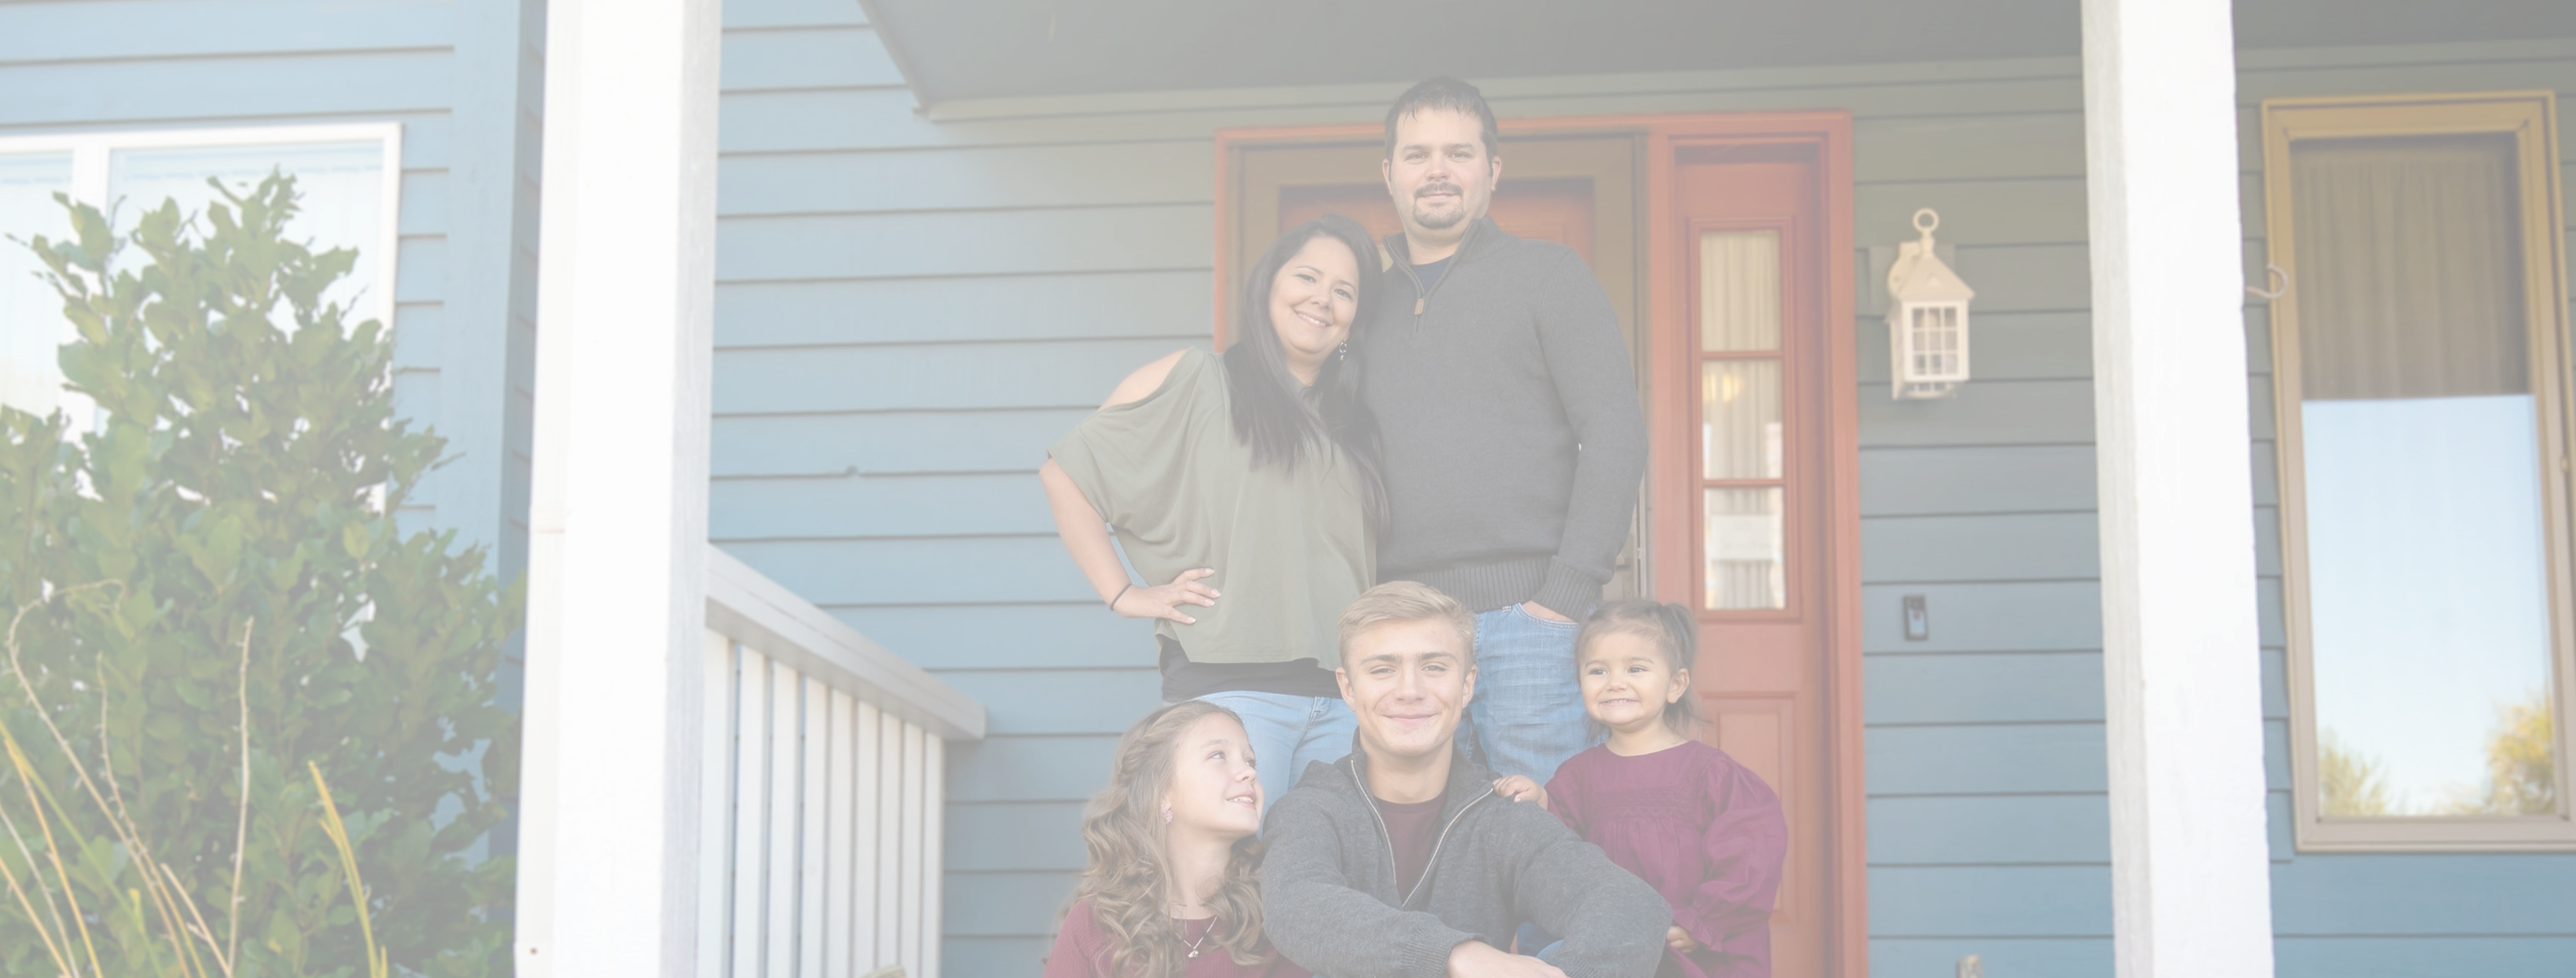
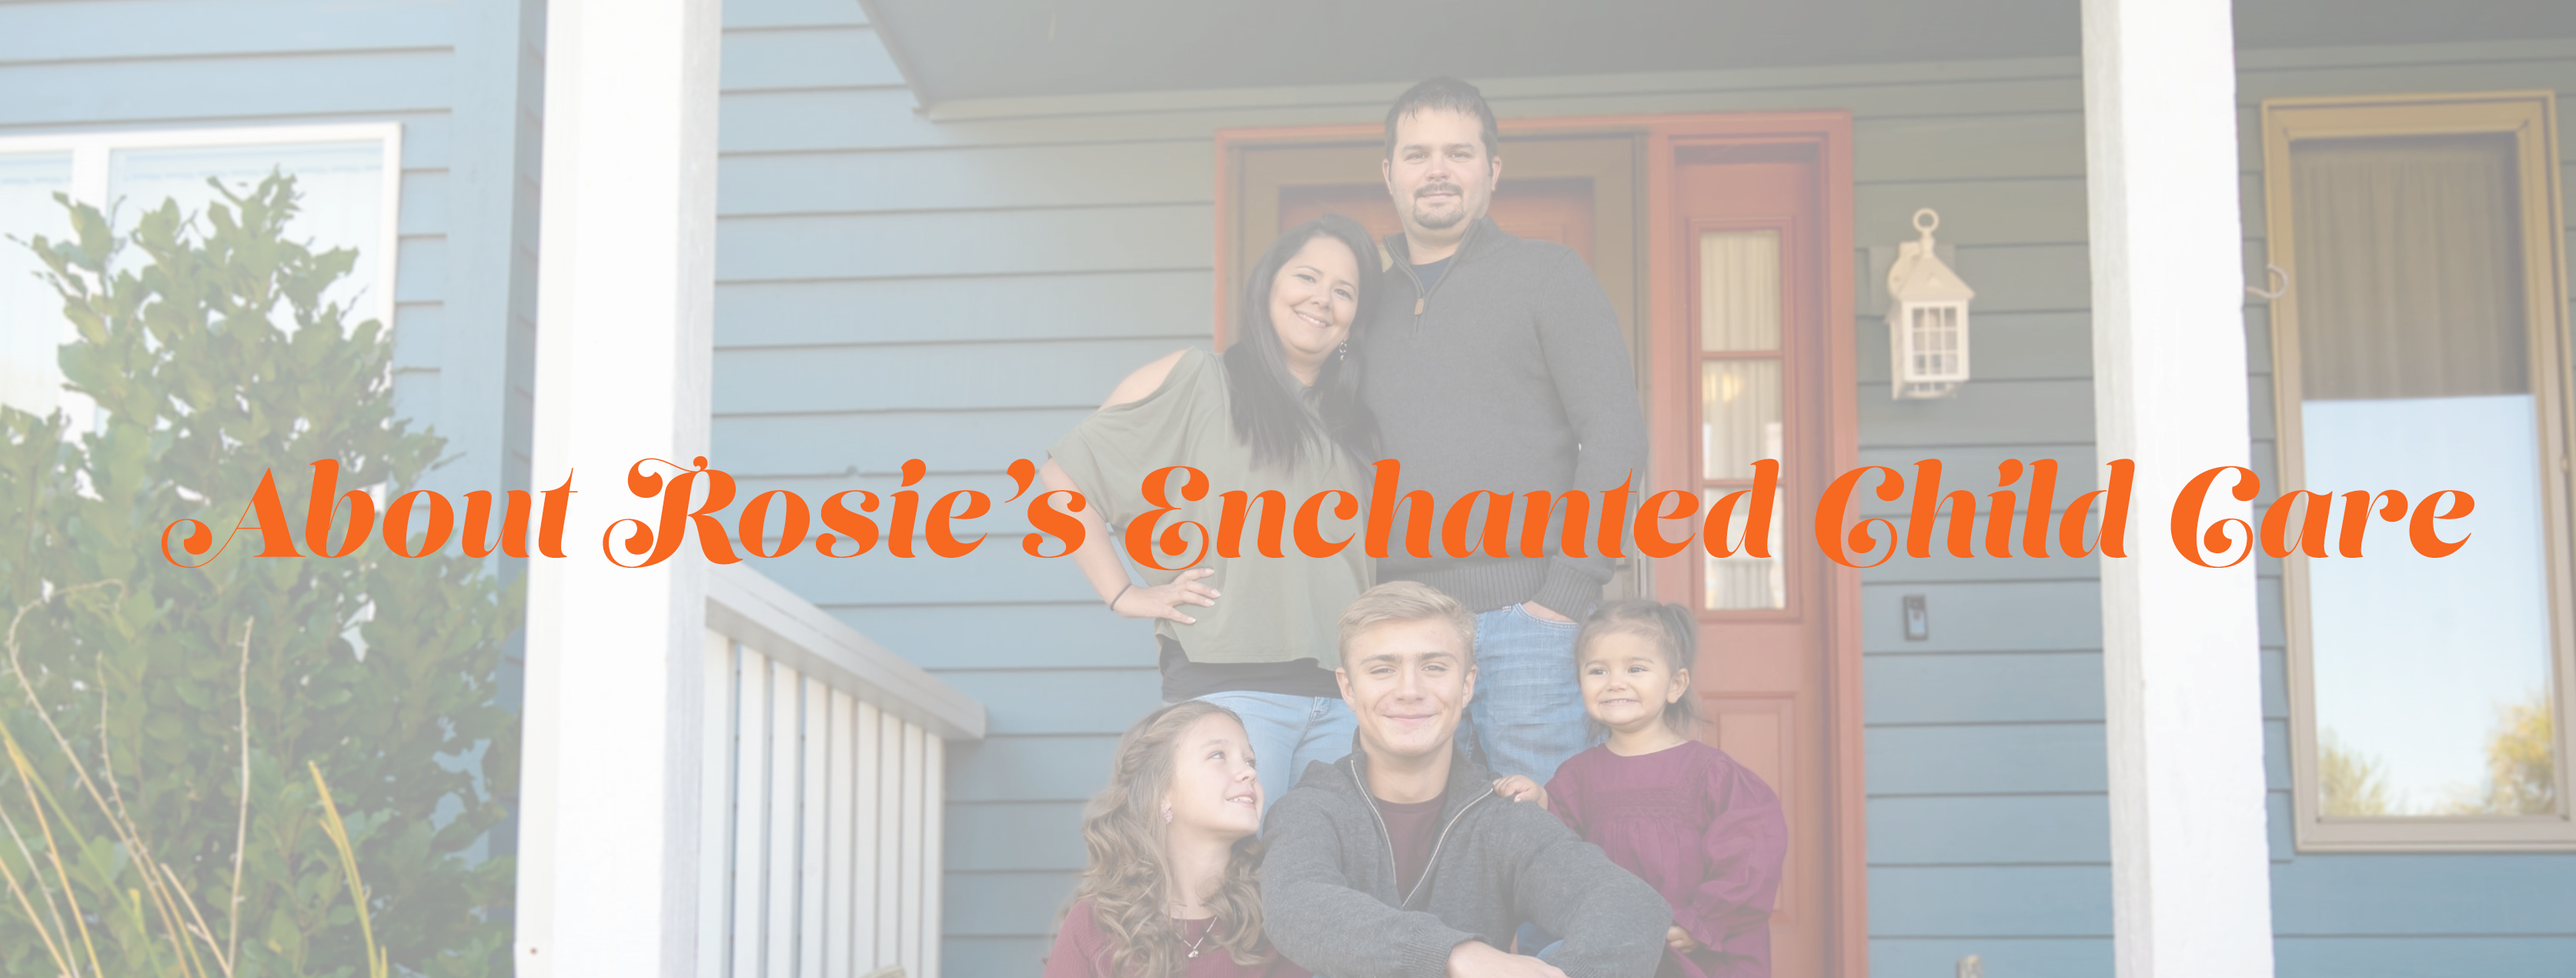
updated fonts and responsiveness

Changed region(s): [[0.0621, 0.4603, 0.9633, 0.583]]

diff --git a/about.html b/about.html
@@ -16,48 +16,46 @@
     <title>About Rosie's Enchanting Childcare</title>
 </head>
 <body>
-  <nav class="navbar navbar-expand-lg fixed-top bg-light pb-0">
-    <div class="container-fluid">
-       <a class="navbar-brand" href="/" title="Homepage"><img src="/media/nav2.png" class="logo d-none d-lg-block" alt="..."></a>
-      <a class="navbar-brand pe-0 me-0" href="/" title="Homepage"><img src="/media/High Resolution Logo - Transparent Background3.png" class="smlogo float-start d-lg-none" alt="..."></a>
-      <button
-       class="navbar-toggler me-4"
-       type="button"
-       data-bs-toggle="collapse"
-       data-bs-target="#navbarNav"
-       aria-controls="navbarNav"
-       aria-expanded="false"
-       aria-label="Toggle navigation"
-       >
-       <span class="navbar-toggler-icon"></span>
-      </button>
-
-      <div class="collapse navbar-collapse navbar-custom justify-content-center me-5" id="navbarNav">
-        <ul class="navbar-nav">
-          <li class="nav-item ">
-            <a class="nav-link " aria-current="page" href="/" title="Homepage">Home</a>
-          </li>
-          <li class="nav-item">
-            <a class="nav-link active" href="/about.html" title="About Rosie">About</a>
-          </li>
-         <li class="nav-item ">
-            <a class="nav-link" href="/Services.html" title="About Rosie">Services</a>
-          </li>
-          <li class="nav-item me-5">
-            <a class="nav-link" href="/contact.html"  title="Contact Rosie">Contact</a>
-          </li>
-        </ul>
+    <header class="container mb-4">
+    <nav class="navbar navbar-expand-lg fixed-top bg-light mt-0 pt-0 pb-0">
+      <div class="container-fluid">
+        <button
+        class="navbar-toggler p-0"
+        type="button"
+        data-bs-toggle="collapse"
+        data-bs-target="#navbarNav"
+        aria-controls="navbarNav"
+        aria-expanded="false"
+        aria-label="Toggle navigation"
+        style="border: none;"
+        >
+          <span class="navbar-toggler-icon " style=" background-image: url(/media/SMLOGO.png)"></span>
+        </button>
+        <a class="navbar-brand" href="/" title="Homepage"><img src="/media/nav2.png" class="logo d-none d-lg-block" alt="..."></a>
+        <div class="collapse navbar-collapse navbar-custom justify-content-center pt-0"   id="navbarNav">
+          <ul class="navbar-nav pt-0 pb-0">
+            <li class="nav-item ">
+              <a class="nav-link" aria-current="page" href="/" title="Homepage">Home</a>
+            </li>
+            <li class="nav-item">
+              <a class="nav-link active" href="/about.html" title="About Rosie">About</a>
+            </li>
+            <li class="nav-item ">
+              <a class="nav-link" href="/Services.html" title="About Rosie">Services</a>
+            </li>
+            <li class="nav-item me-5">
+              <a class="nav-link" href="/contact.html"  title="Contact Rosie">Contact</a>
+            </li>
+          </ul>
+        </div>
       </div>
-    </div>
-  </nav>
+    </nav>
+  </header>
     <div class="hero d-flex justify-content-center">
       <img src="/media/about.png" class="img-fluid rounded  " alt="">
-       <div class="hero-text position-absolute top-50 start-50 translate-middle pb-5 mb-5">
-        <h1 class="contact-heading pb-5 mb-5">About Rosie's Enchanting Childcare</h1>
-        </div>
   </div>
-  <div class="container about-section" style=" background-image: url(/media/main4.png);" >
-          <div class="about-section-content justify-content-center" >
+  <div class="container about-section-content justify-content-center" style=" background-image: url(/media/main4.png);" >
+
             <br>
             <br>
             <br>
@@ -73,7 +71,7 @@
             <br>
             <br>
             <br>
-          </div>
+
   </div>
   <footer class="bg-link text-center text-white " style="background-color: #fbdade9c">
   <div class="container p-2">

diff --git a/index.html b/index.html
@@ -11,6 +11,7 @@
     <link rel="preconnect" href="https://fonts.googleapis.com">
     <link rel="preconnect" href="https://fonts.gstatic.com" crossorigin>
     <link href="https://fonts.googleapis.com/css2?family=Pridi:wght@200;300;400;500;600;700&family=Rock+Salt&family=Shadows+Into+Light&display=swap" rel="stylesheet">
+    <link rel="stylesheet" href="https://use.typekit.net/mdo3god.css">
     <link rel="stylesheet" href="styles/style.css" />
     <title>Rosie's Enchanting Childcare</title>
 </head>
@@ -19,7 +20,7 @@
     <nav class="navbar navbar-expand-lg fixed-top bg-light mt-0 pt-0 pb-0">
       <div class="container-fluid">
         <button
-        class="navbar-toggler p-1"
+        class="navbar-toggler p-0"
         type="button"
         data-bs-toggle="collapse"
         data-bs-target="#navbarNav"
@@ -52,39 +53,39 @@
   </header>
   <main>
   <div class="hero d-flex justify-content-center">
-      <img src="/media/main1.png" class="img-fluid rounded  " alt="">
+      <img src="/media/main1.png" class="img-fluid" alt="">
   </div>
     <div class="containter services-wrapper" style=" background-image: url(/media/main4.png);">
       <div class="d-flex justify-content-center">
         <div class="row services gx-5  justify-content-center ">
-          <div class="col-12 col-lg-3 gx-5">
+          <div class="col-md-3 gx-5 justify-content-center">
 
              <div class="card text-bg-dark border-brand shadow-lg" style="width: 18rem;">
-  <img src="media/infant.png" class="card-img" alt="..." href="/Services.html">
-  <div class="card-img-overlay">
-    <h5 class="card-title">Infant Care</h5>
-  </div>
-
+               <img src="media/infant.jpeg" class="card-img" alt="..." href="/Services.html">
+                <div class="card-img-overlay">
+                    <h5 class="card-title">Infant Care</h5>
+                 </div>
             </div>
           </div>
-          <div class="col-12 col-lg-3 gx-5">
-          <div class="card text-bg-dark border-brand shadow-lg" style="width: 18rem;">
-  <img src="media/toddler.png" class="card-img" alt="..." href="/Services.html">
-  <div class="card-img-overlay">
-    <h5 class="card-title">Toddler Care</h5>
-  </div>
+          <div class="col-md-3 gx-5 justify-content-center">
+            <div class="card text-bg-dark border-brand shadow-lg" style="width: 18rem;">
+              <img src="media/toddler.jpeg" class="card-img" alt="..." href="/Services.html">
+                <div class="card-img-overlay">
+                  <h5 class="card-title">Toddler Care</h5>
+                </div>
+            </div>
           </div>
-          <div class="col-12 col-lg-3 gx-5">
+          <div class="col-md-3 gx-5 justify-content-center">
               <div class="card text-bg-dark border-brand shadow-lg" style="width: 18rem;">
-  <img src="media/preschool.png" class="card-img" alt="..." href="/Services.html">
+  <img src="media/preschool.jpeg" class="card-img" alt="..." href="/Services.html">
   <div class="card-img-overlay">
     <h5 class="card-title">Pre-School Care</h5>
   </div>
           </div>
           </div>
-          <div class="col-12 col-lg-3 gx-5">
+          <div class=" col-md-3 gx-5 justify-content-center">
 <div class="card text-bg-dark border-brand shadow-lg" style="width: 18rem;">
-  <img src="media/school.png" class="card-img" alt="..." href="/Services.html">
+  <img src="media/school.jpeg" class="card-img" alt="..." href="/Services.html">
   <div class="card-img-overlay">
     <h5 class="card-title">School-Age Care</h5>
   </div>

diff --git a/contact.html b/contact.html
@@ -15,45 +15,43 @@
     <title>Contact</title>
 </head>
 <body>
-  <nav class="navbar navbar-expand-lg fixed-top bg-light pb-0">
-    <div class="container-fluid">
-       <a class="navbar-brand" href="/" title="Homepage"><img src="/media/nav2.png" class="logo d-none d-lg-block" alt="..."></a>
-      <a class="navbar-brand pe-0 me-0" href="/" title="Homepage"><img src="/media/High Resolution Logo - Transparent Background3.png" class="smlogo float-start d-lg-none" alt="..."></a>
-      <button
-       class="navbar-toggler me-4"
-       type="button"
-       data-bs-toggle="collapse"
-       data-bs-target="#navbarNav"
-       aria-controls="navbarNav"
-       aria-expanded="false"
-       aria-label="Toggle navigation"
-       >
-       <span class="navbar-toggler-icon"></span>
-      </button>
-
-      <div class="collapse navbar-collapse navbar-custom justify-content-center me-5" id="navbarNav">
-        <ul class="navbar-nav">
-          <li class="nav-item ">
-            <a class="nav-link " aria-current="page" href="/" title="Homepage">Home</a>
-          </li>
-          <li class="nav-item">
-            <a class="nav-link" href="/about.html" title="About Rosie">About</a>
-          </li>
-         <li class="nav-item ">
-            <a class="nav-link" href="/Services.html" title="About Rosie">Services</a>
-          </li>
-          <li class="nav-item me-5">
-            <a class="nav-link active" href="/contact.html"  title="Contact Rosie">Contact</a>
-          </li>
-        </ul>
+    <header class="container mb-4">
+    <nav class="navbar navbar-expand-lg fixed-top bg-light mt-0 pt-0 pb-0">
+      <div class="container-fluid">
+        <button
+        class="navbar-toggler p-0"
+        type="button"
+        data-bs-toggle="collapse"
+        data-bs-target="#navbarNav"
+        aria-controls="navbarNav"
+        aria-expanded="false"
+        aria-label="Toggle navigation"
+        style="border: none;"
+        >
+          <span class="navbar-toggler-icon " style=" background-image: url(/media/SMLOGO.png)"></span>
+        </button>
+        <a class="navbar-brand" href="/" title="Homepage"><img src="/media/nav2.png" class="logo d-none d-lg-block" alt="..."></a>
+        <div class="collapse navbar-collapse navbar-custom justify-content-center pt-0"   id="navbarNav">
+          <ul class="navbar-nav pt-0 pb-0">
+            <li class="nav-item ">
+              <a class="nav-link" aria-current="page" href="/" title="Homepage">Home</a>
+            </li>
+            <li class="nav-item">
+              <a class="nav-link" href="/about.html" title="About Rosie">About</a>
+            </li>
+            <li class="nav-item ">
+              <a class="nav-link" href="/Services.html" title="About Rosie">Services</a>
+            </li>
+            <li class="nav-item me-5">
+              <a class="nav-link active" href="/contact.html"  title="Contact Rosie">Contact</a>
+            </li>
+          </ul>
+        </div>
       </div>
-    </div>
-  </nav>
+    </nav>
+  </header>
     <div class="hero d-flex justify-content-center">
         <img src="/media/contact.png" class="img-fluid" alt="">
-        <div class="hero-text position-absolute top-50 start-50 translate-middle pb-5">
-        <h1 class="contact-heading text-wrap ">Contact Rosie's Enchanting Childcare</h1>
-        </div>
   </div>
   <div class="containter contact pt-5 pb-5">
         <div class="d-flex contact-text text-wrap container pt-5 pb-5 text-center">

diff --git a/Services.html b/Services.html
@@ -15,46 +15,43 @@
     <title>Services</title>
 </head>
 <body>
- <nav class="navbar navbar-expand-lg fixed-top bg-light pb-0">
-    <div class="container-fluid">
-       <a class="navbar-brand" href="/" title="Homepage"><img src="/media/nav2.png" class="logo d-none d-lg-block" alt="..."></a>
-      <a class="navbar-brand pe-0 me-0" href="/" title="Homepage"><img src="/media/High Resolution Logo - Transparent Background3.png" class="smlogo float-start d-lg-none" alt="..."></a>
-      <button
-       class="navbar-toggler me-4"
-       type="button"
-       data-bs-toggle="collapse"
-       data-bs-target="#navbarNav"
-       aria-controls="navbarNav"
-       aria-expanded="false"
-       aria-label="Toggle navigation"
-       >
-       <span class="navbar-toggler-icon"></span>
-      </button>
-
-      <div class="collapse navbar-collapse navbar-custom justify-content-center me-5" id="navbarNav">
-        <ul class="navbar-nav">
-          <li class="nav-item ">
-            <a class="nav-link " aria-current="page" href="/" title="Homepage">Home</a>
-          </li>
-          <li class="nav-item">
-            <a class="nav-link" href="/about.html" title="About Rosie">About</a>
-          </li>
-         <li class="nav-item ">
-            <a class="nav-link active" href="/Services.html" title="About Rosie">Services</a>
-          </li>
-          <li class="nav-item me-5">
-            <a class="nav-link" href="/contact.html"  title="Contact Rosie">Contact</a>
-          </li>
-        </ul>
+  <header class="container mb-4">
+    <nav class="navbar navbar-expand-lg fixed-top bg-light mt-0 pt-0 pb-0">
+      <div class="container-fluid">
+        <button
+        class="navbar-toggler p-0"
+        type="button"
+        data-bs-toggle="collapse"
+        data-bs-target="#navbarNav"
+        aria-controls="navbarNav"
+        aria-expanded="false"
+        aria-label="Toggle navigation"
+        style="border: none;"
+        >
+          <span class="navbar-toggler-icon " style=" background-image: url(/media/SMLOGO.png)"></span>
+        </button>
+        <a class="navbar-brand" href="/" title="Homepage"><img src="/media/nav2.png" class="logo d-none d-lg-block" alt="..."></a>
+        <div class="collapse navbar-collapse navbar-custom justify-content-center pt-0"   id="navbarNav">
+          <ul class="navbar-nav pt-0 pb-0">
+            <li class="nav-item ">
+              <a class="nav-link" aria-current="page" href="/" title="Homepage">Home</a>
+            </li>
+            <li class="nav-item">
+              <a class="nav-link" href="/about.html" title="About Rosie">About</a>
+            </li>
+            <li class="nav-item ">
+              <a class="nav-link active" href="/Services.html" title="About Rosie">Services</a>
+            </li>
+            <li class="nav-item me-5">
+              <a class="nav-link" href="/contact.html"  title="Contact Rosie">Contact</a>
+            </li>
+          </ul>
+        </div>
       </div>
-    </div>
-  </nav>
-<body>
+    </nav>
+  </header>
   <div class="hero d-flex justify-content-center">
     <img src="/media/services.png" class="img-fluid" alt="">
-    <div class="hero-text position-absolute top-50 start-50 translate-middle pb-5">
-      <h1 class=" pb-5 mb-5 text-center services">Services Offered</h1>
-    </div>
   </div>
 
       <div class="containter justify-content-center services-wrapper">
@@ -148,5 +145,4 @@
     </section>
   </div>
 </footer>
-</body>
 </html>

diff --git a/styles/style.css b/styles/style.css
@@ -1,14 +1,15 @@
 :root{
        --background-color: #FAE3BE;
-       --heading-font-family: 'Shadows Into Light', cursive;
+       --heading-font-family: 'mandevilla', sans-serif;
        --heading-color: #303B93;
        --branding-color: #ED4D87;
        --secondary-branding-color: #f76821;
        --default-font-family: 'Pridi', serif;
-       --btn-font-family: 'Rock Salt', cursive;
+       --btn-font-family:  'mandevilla', sans-serif;
        --default-font-color:#4DB9CC;
 
     }
+
 body {
   font-family: var(--default-font-family);
 }
@@ -33,7 +34,7 @@ p{
 }
 .navbar-custom-drop{
   font-family: var(--heading-font-family);
-  font-weight: bold;
+  font-weight: 700;
   font-size: 20px;
   background:none;
   border: none;
@@ -47,7 +48,7 @@ p{
 }
 .active{
    color: var(--branding-color)!important;
-   font-weight: bolder;
+   font-weight: 800;
 
 }
 
@@ -128,7 +129,7 @@ background: #FAE3BE;
   margin-top: 1px;
 }
 .border-brand{
-  border:#303B93 solid 1px;
+  border:#f76821 solid 1px;
    box-shadow: var(--box-shadow);
    width: 18rem;
 }
